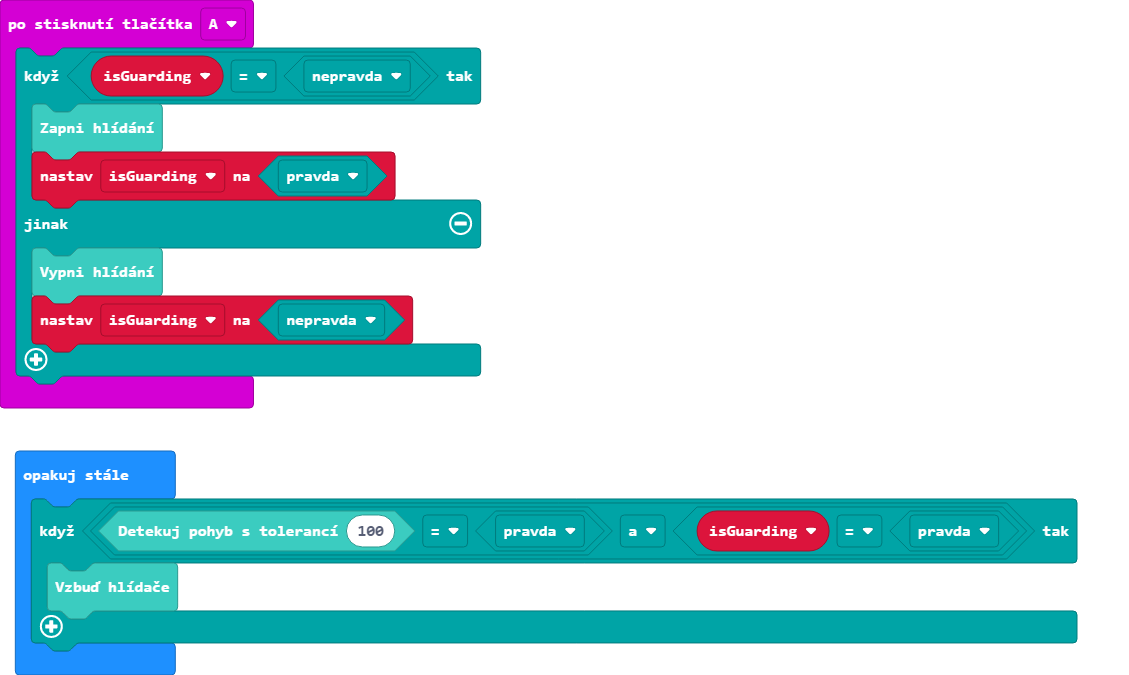
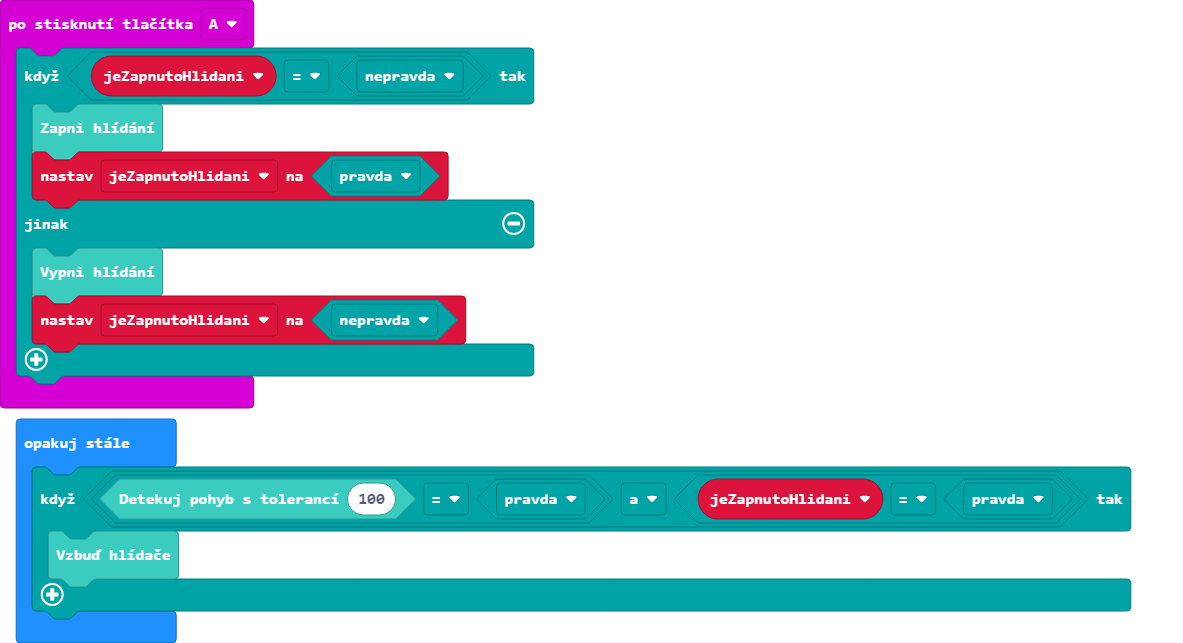
Aktualizovat pxt.json, main.blocks, main.ts

Changed region(s): [[0.0, 0.0, 0.961, 1.0]]

diff --git a/main.ts b/main.ts
@@ -1,15 +1,15 @@
-let isGuarding = false
+let jeZapnutoHlidani = false
 input.onButtonPressed(Button.A, function () {
-    if (isGuarding == false) {
+    if (jeZapnutoHlidani == false) {
         Mikado.ZapnoutHlidani()
-        isGuarding = true
+        jeZapnutoHlidani = true
     } else {
         Mikado.VypnoutHlidani()
-        isGuarding = false
+        jeZapnutoHlidani = false
     }
 })
 basic.forever(function () {
-    if (Mikado.DetekovatPohyb(100) == true && isGuarding == true) {
+    if (Mikado.DetekovatPohyb(100) == true && jeZapnutoHlidani == true) {
         Mikado.VzbuditHlidace()
     }
 })
